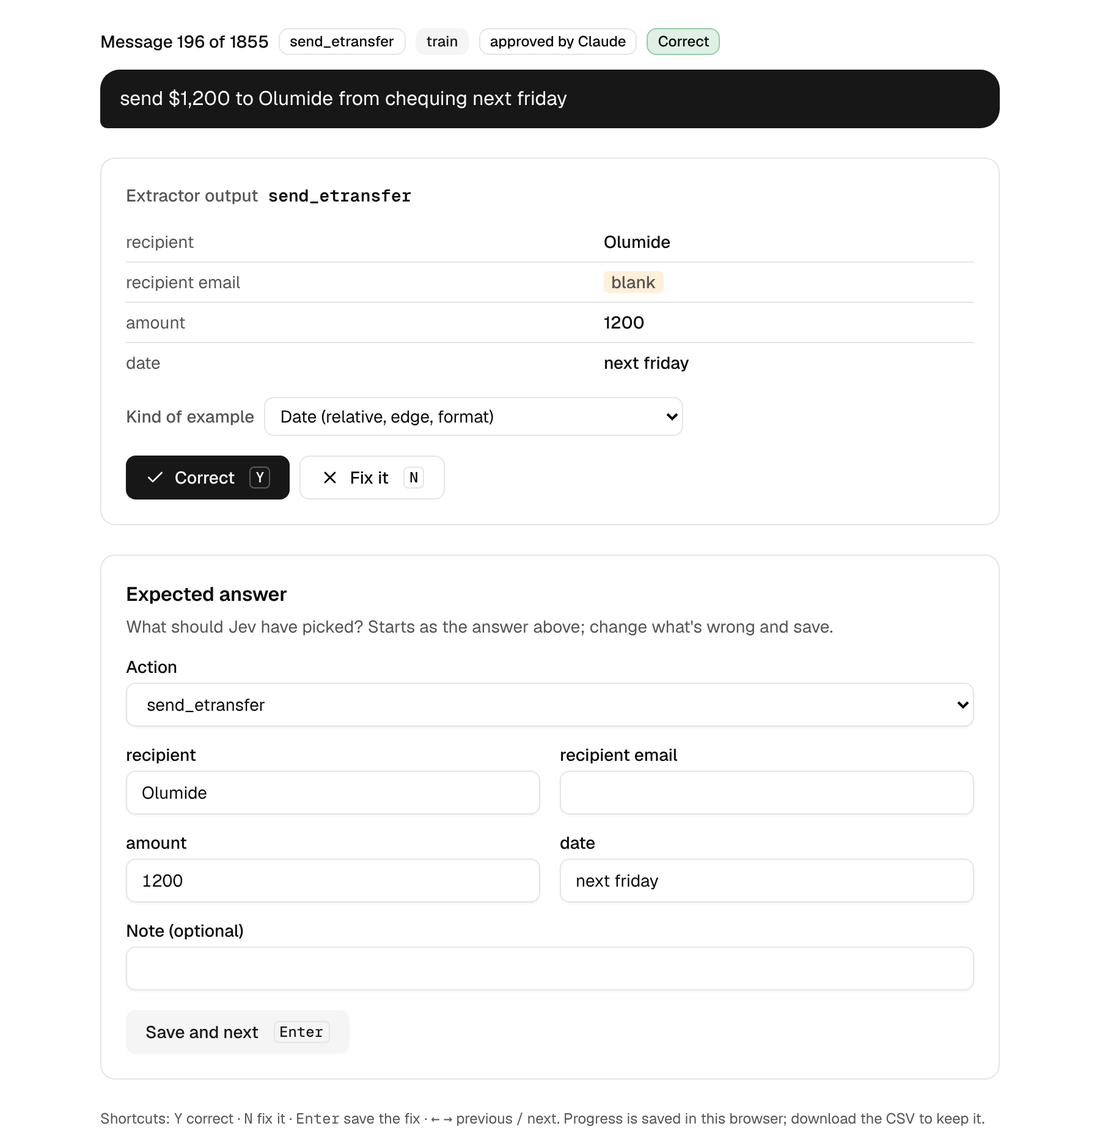
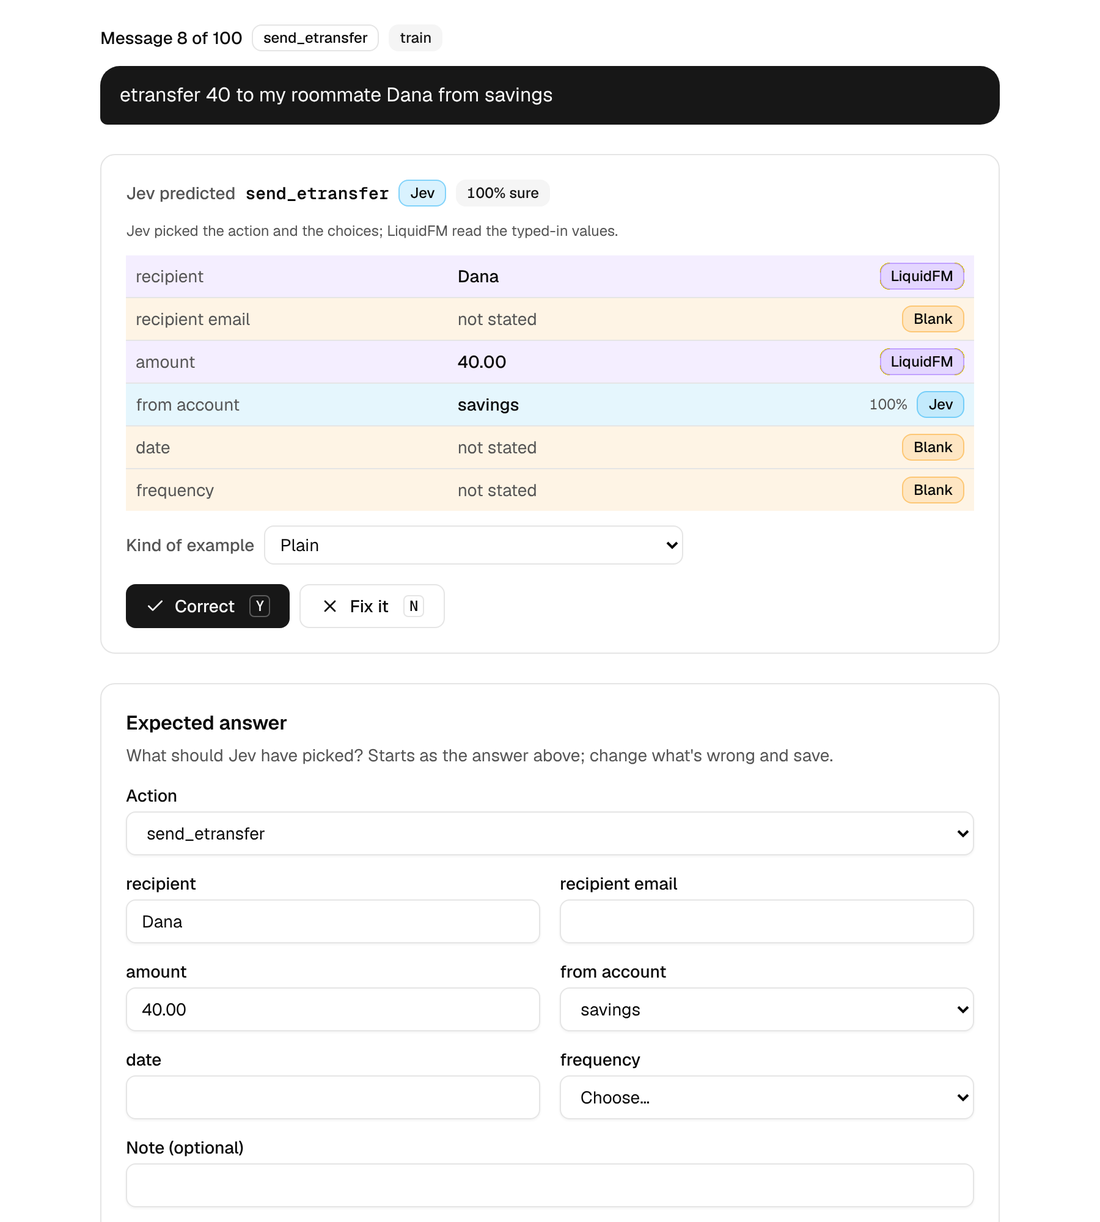
README: show the Jev predictions view with the account field
Claude-Session: https://claude.ai/code/session_0137Lc8vwJZnEVMun5XZP6VQ

diff --git a/README.md b/README.md
@@ -47,7 +47,7 @@ Fourteen actions, one prebuilt form each. Defined in [`src/lib/jev/catalog.ts`](
 2. Generated synthetic training data with Opus 5.5.
 3. Human-validated a subset of the data - enough to identify key problems and annotate fixes.
 
-   ![The /annotate page on a fine-tuning example: the extractor's output, Correct / Fix it buttons, and the expected answer to edit](docs/annotate-example.png)
+   ![The /annotate page on one message: Jev picked the action and the account, the fine-tuned model read the recipient and amount, and the expected answer is editable](docs/annotate-example.png)
 
 4. Applied what that review taught to the rest of the data.
 5. Fine-tuned the student model (LFM2.5-350M) with supervised fine-tuning (SFT).
